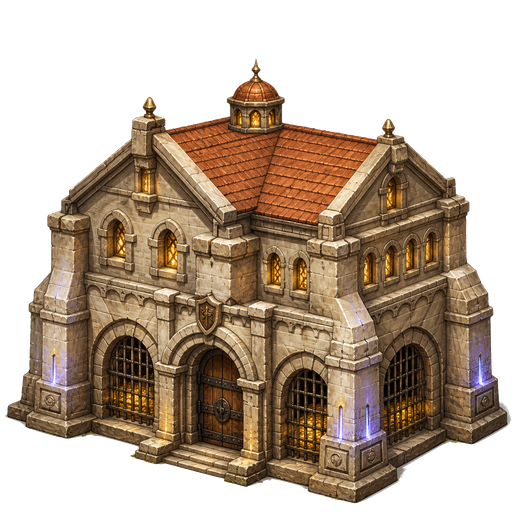
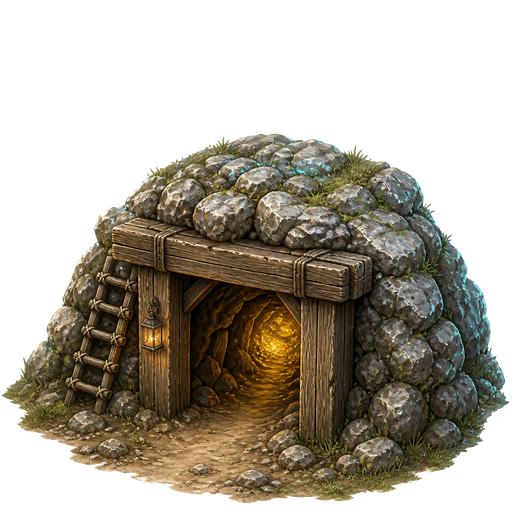
Remesh Gold Vault to hillside mine-mouth aesthetic, flag still off.
Replace stronghouse/arcade sheets with dug-into-hill timber-framed bunker mouth and aether-gold glow; soft-wire stays deferred for the stronghold batch.

diff --git a/game.js b/game.js
@@ -7030,7 +7030,7 @@ function drawHallSprite(s) {
 // Gold Vault sheets — soft-wire OFF until building-art ship batch.
 // Collision r stays STRUCT_KINDS.golddepot.r (40). Flag ON → drawH=52 (stockier than hall 60).
 const VAULT_SPRITE_ENABLED = false;
-const VAULT_SPRITE_DRAWH = 52; // SIZE LOCK — fortified storehouse, << hall / Keep
+const VAULT_SPRITE_DRAWH = 52; // SIZE LOCK — squat mine-mouth bunker, << hall / Keep
 const vaultSpr = { idle: null, damaged: null, ok: false };
 (function loadVaultSprites() {
   if (!VAULT_SPRITE_ENABLED) return;

diff --git a/www/game.js b/www/game.js
@@ -7030,7 +7030,7 @@ function drawHallSprite(s) {
 // Gold Vault sheets — soft-wire OFF until building-art ship batch.
 // Collision r stays STRUCT_KINDS.golddepot.r (40). Flag ON → drawH=52 (stockier than hall 60).
 const VAULT_SPRITE_ENABLED = false;
-const VAULT_SPRITE_DRAWH = 52; // SIZE LOCK — fortified storehouse, << hall / Keep
+const VAULT_SPRITE_DRAWH = 52; // SIZE LOCK — squat mine-mouth bunker, << hall / Keep
 const vaultSpr = { idle: null, damaged: null, ok: false };
 (function loadVaultSprites() {
   if (!VAULT_SPRITE_ENABLED) return;

diff --git a/docs/vault-art-plan.md b/docs/vault-art-plan.md
@@ -1,14 +1,15 @@
 # Gold Vault building art plan
 
-Original Temporal Rift **Gold Vault** town building — meshed from arcade /
-fortified storehouse cues (not a named real-world landmark clone). **Gold Vault
-only** this pass (#2d); Muster Hall is #2c; Aether Pit still pending (optional
-later — vault prioritized).
+Original Temporal Rift **Gold Vault** town building — meshed from hillside mine /
+fortified bunker-mouth cues (not a named real-world landmark clone, and **not**
+the earlier freestanding stronghouse / arcade vault look). **Gold Vault only**
+this remesh; Muster Hall is #2c; Aether Pit still pending.
 
-**Status (2026-08-09):** Art drafted + soft-wired. Live game still uses procedural
-`golddepot` rects (`drawStructure`). Flip `VAULT_SPRITE_ENABLED=true` (one line
-near `drawStructure`) to enable sheets. **Store ship deferred** with hall/pit +
-stronghold + town-save batch — **no APK / no version bump this pass.**
+**Status (2026-08-09):** Remeshed to dug-into-hill mine-mouth + soft-wired.
+Live game still uses procedural `golddepot` rects (`drawStructure`). Flip
+`VAULT_SPRITE_ENABLED=true` (one line near `drawStructure`) to enable sheets.
+**Store ship deferred** with hall/pit + stronghold + town-save batch — **no APK
+/ no version bump this pass.**
 
 ## Size lock
 
@@ -16,15 +17,15 @@ stronghold + town-save batch — **no APK / no version bump this pass.**
 |-------|---------------------|------------|--------|
 | Vault collision `r` | **40** (`STRUCT_KINDS.golddepot.r`) | **40** (unchanged) | Same footprint as timber camp radius |
 | Procedural body | bw **32** × bh **28** (+ roof bits) | unused when sprite draws | Baseline silhouette |
-| Sprite `drawH` | n/a | **52** (`VAULT_SPRITE_DRAWH`) | Stockier / shorter than Muster Hall **60**; near camp timber **50** |
-| Sprite `drawW` | n/a | aspect from sheet | Feet at `s.y`; fortified storehouse, not hall / Keep / Gharok |
+| Sprite `drawH` | n/a | **52** (`VAULT_SPRITE_DRAWH`) | Squat mine mouth; stockier / shorter than Muster Hall **60**; near camp timber **50** |
+| Sprite `drawW` | n/a | aspect from sheet | Feet at `s.y`; hillside bunker mouth, not hall / Keep / Gharok |
 
-Source PNGs are 512×512 transparent but drawn at vault scale — thick-walled
-stronghouse with grated arcade, not a civic tower-hall.
+Source PNGs are 512×512 transparent but drawn at vault scale — low rocky mound
+with timber-framed entrance and aether-gold interior glow.
 
 ## Assets
 
-- `assets/buildings/vault/idle.png` — main Gold Vault
+- `assets/buildings/vault/idle.png` — main Gold Vault (mine mouth)
 - `assets/buildings/vault/damaged.png` — battle-scarred variant (HP &lt; 45% when flag ON)
 
 Transparent background. Soft-load path mirrors Keep/hall: when
@@ -37,11 +38,12 @@ remains default / fallback while flag is false (live unchanged).
 
 Meshed traits (inspiration only):
 
-1. Stocky thick-walled stone stronghouse (shorter than Muster Hall)
-2. Heavy grated / barred arcade arches (vault + storehouse read)
-3. Iron-bound oak door; small high windows with warm aether-gold glow
-4. Shallow gable / modest cupola — no tall civic tower
-5. Subtle Temporal Rift accent: gold ore sparkles + cool cyan–violet rim light
+1. Dug-into-hill / rocky mound bunker mouth (not a freestanding two-story treasury)
+2. Heavy rustic timber frame — posts + lintel (optional rope/iron bindings)
+3. Dark tunnel interior with warm **aether-gold** glow deep inside
+4. Optional rustic ladder + hanging lantern; dirt path / rubble at feet
+5. Subtle Temporal Rift accent: cool cyan–violet rim optional; **no readable IP /
+   landmark sign text** (do not clone “CRUICE MONITAN” or similar)
 
 ## References (inspiration only)
 
@@ -49,10 +51,11 @@ Under `assets/buildings/vault/_refs/` (stripped from APK — not copied to `www/
 
 | File | Role |
 |------|------|
-| `arcade-massing-insp.png` | Heavy stone massing / buttress rhythm (vault scale cue) |
-| `fortified-detail-insp.png` | Ornate stone / fortified facade accents |
+| `hillside-bunker-mouth-insp.png` | Fortified stone bunker dug into grassy hillside |
+| `rocky-cave-ladder-insp.png` | Natural rocky cave opening + rustic ladder |
+| `timber-frame-mine-mouth-insp.png` | Timber-framed mine mouth miniature (posts + lintel) |
 
-Arcade cues also informed by shared hall town-hall arcade refs (inspiration only).
+Prior arcade / fortified-storehouse refs were replaced by this mine-mouth set.
 
 ## Soft-wire flags
 
@@ -71,7 +74,7 @@ checker variants / `preview-idle-damaged.png` for Photos review.
 ## Optional note — Aether Pit
 
 Aether Pit (`aetherpit`, r=38) remains procedural; no sprite draft this pass
-unless a later #2 part adds it. Vault only for #2d.
+unless a later #2 part adds it. Vault only for #2d remesh.
 
 ## Apply / ship (later batch)
 
@@ -82,5 +85,5 @@ unless a later #2 part adds it. Vault only for #2d.
 ## Next batch order
 
 (1) ~~ravager~~ → (2a) ~~Keep~~ → (2b) ~~camps~~ → (2c) ~~Muster Hall~~ →
-**(2d) ~~Gold Vault~~ drafted flag OFF** → pit optional → (3) allies →
+**(2d) ~~Gold Vault~~ remeshed mine-mouth, flag OFF** → pit optional → (3) allies →
 (4) fence brick stronghold → (5) one update apply

diff --git a/docs/CHANGE_MEMORY.md b/docs/CHANGE_MEMORY.md
@@ -58,7 +58,7 @@ Update when any channel ships. Audit snapshot as of 2026-08-09:
 | Rift Keep building sprites (idle/damaged) | **Drafted on master, flag OFF** (`KEEP_SPRITE_ENABLED=false`; live procedural keep; flip → drawH=72, r=54 unchanged) — **ship deferred** with stronghold batch | **No** | **No** | **No** |
 | Timber/Supply Camp building sprites | **Drafted on master, flags OFF** (`CAMP_SPRITE_ENABLED`/`TIMBER_SPRITE_ENABLED`/`SUPPLY_SPRITE_ENABLED=false`; live procedural; flip → timber drawH=50 r=40 / supply drawH=46 r=36) — **ship deferred** with stronghold batch | **No** | **No** | **No** |
 | Muster Hall building sprites (idle/damaged) | **Drafted on master, flag OFF** (`HALL_SPRITE_ENABLED=false`; live procedural muster; flip → drawH=60, r=46 unchanged) — **ship deferred** with stronghold batch | **No** | **No** | **No** |
-| Gold Vault building sprites (idle/damaged) | **Drafted on master, flag OFF** (`VAULT_SPRITE_ENABLED=false`; live procedural golddepot; flip → drawH=52, r=40 unchanged) — **ship deferred** with stronghold batch; Aether Pit still pending | **No** | **No** | **No** |
+| Gold Vault building sprites (idle/damaged) | **Remeshed mine-mouth on master, flag OFF** (`VAULT_SPRITE_ENABLED=false`; live procedural golddepot; flip → drawH=52, r=40 unchanged) — hillside bunker / timber frame + aether-gold glow (replaced prior stronghouse mesh); **ship deferred** with stronghold batch; Aether Pit still pending | **No** | **No** | **No** |
 | Riftnet co-op (presence/HP/wave/revive) | Yes (partial) | Yes | Yes (2.13.2) | Yes (2.13.2) |
 | Full co-op combat sync (enemies shared) | **No** (deferred) | **No** | **No** | **No** |
 | Buildable city / craft behind fences | **Deepened** (2.11.0 WC2-style slice) | **Deepened** | **Deepened** (2.13.2) | **Deepened** (2.13.2) |
@@ -139,9 +139,9 @@ Do not invent extras. Skip boss art / combat “feel” polish unless user reope
 | Backlog | **Rift Keep** building art — **drafted, flag OFF** | `assets/buildings/keep/{idle,damaged}.png`; `KEEP_SPRITE_ENABLED=false`; collision `r=54` unchanged; flag ON → `drawH=72`. See `docs/keep-art-plan.md`. Apply with stronghold batch |
 | Backlog | **Timber/Supply Camp** building art — **drafted, flags OFF** | Commit `0484c67`; `assets/buildings/camp/{idle,damaged,timber-idle,timber-damaged,supply-idle,supply-damaged}.png`; `CAMP_SPRITE_ENABLED`/`TIMBER_SPRITE_ENABLED`/`SUPPLY_SPRITE_ENABLED=false`; flip → timber r=40 drawH=50 / supply(farm) r=36 drawH=46 (collision r unchanged). Desktop `TemporalRift-Camp-Sprites`. See `docs/camp-art-plan.md`. Apply with stronghold batch |
 | Backlog | **Muster Hall** building art — **drafted, flag OFF** | Commit `080094b`; `assets/buildings/hall/{idle,damaged}.png`; `HALL_SPRITE_ENABLED=false`; collision `r=46` unchanged; flag ON → `drawH=60` (between camp ~50 and Keep 72). Desktop `TemporalRift-Hall-Sprites`. See `docs/hall-art-plan.md`. Apply with stronghold batch |
-| Backlog | **Gold Vault** building art — **drafted, flag OFF** | Commit `080094b`; `assets/buildings/vault/{idle,damaged}.png`; `VAULT_SPRITE_ENABLED=false`; collision `r=40` unchanged; flag ON → `drawH=52` (stockier than hall 60). Desktop `TemporalRift-Vault-Sprites`. See `docs/vault-art-plan.md`. Aether Pit still pending; apply with stronghold batch |
+| Backlog | **Gold Vault** building art — **remeshed mine-mouth, flag OFF** | Replaced stronghouse/arcade mesh with dug-into-hill timber-framed mine mouth + aether-gold interior glow (no readable IP/sign text); `assets/buildings/vault/{idle,damaged}.png`; `_refs/`: hillside-bunker-mouth-insp, rocky-cave-ladder-insp, timber-frame-mine-mouth-insp (old arcade refs removed); `VAULT_SPRITE_ENABLED=false`; collision `r=40` unchanged; flag ON → `drawH=52`. Desktop `TemporalRift-Vault-Sprites`. See `docs/vault-art-plan.md`. Aether Pit still pending; apply with stronghold batch |
 
-**Next batch suggested order** (user photos → art upgrades + buildings + ravager + stronghold later): (1) ~~ravager mesh~~ **art+articulation+barks coded (flag OFF)** (2a) ~~**Keep art**~~ **drafted (flag OFF)** (2b) ~~**camps**~~ **drafted (flags OFF)** (2c) ~~**Muster Hall**~~ **drafted (flag OFF)** (2d) ~~**Gold Vault**~~ **drafted (flag OFF)** → **Aether Pit** optional → (3) ally/militia/laborer skins if photos (4) fence brick stronghold systems (5) one update apply (town save + ravager/keep/camp/hall/vault flags ON).
+**Next batch suggested order** (user photos → art upgrades + buildings + ravager + stronghold later): (1) ~~ravager mesh~~ **art+articulation+barks coded (flag OFF)** (2a) ~~**Keep art**~~ **drafted (flag OFF)** (2b) ~~**camps**~~ **drafted (flags OFF)** (2c) ~~**Muster Hall**~~ **drafted (flag OFF)** (2d) ~~**Gold Vault**~~ **remeshed mine-mouth (flag OFF)** → **Aether Pit** optional → (3) ally/militia/laborer skins if photos (4) fence brick stronghold systems (5) one update apply (town save + ravager/keep/camp/hall/vault flags ON).
 
 ---
 

diff --git a/docs/UNIT_SIZES.md b/docs/UNIT_SIZES.md
@@ -58,4 +58,4 @@ In-engine animation (limb swing / windup / strike / hurt lean) must stay additiv
 - **Rift Keep (art drafted, flag OFF 2026-08-09):** `assets/buildings/keep/{idle,damaged}.png`; `KEEP_SPRITE_ENABLED=false` (live procedural keep bw42/bh40/~56 tall). Flip flag -> `drawH=72`, collision `r=54` unchanged (keep-sized, not Gharok-huge). See `docs/keep-art-plan.md`.
 - **Timber/Supply Camp (art drafted, flags OFF 2026-08-09):** `assets/buildings/camp/{idle,damaged,timber-idle,timber-damaged,supply-idle,supply-damaged}.png`; `CAMP_SPRITE_ENABLED`/`TIMBER_SPRITE_ENABLED`/`SUPPLY_SPRITE_ENABLED=false` (live procedural bw32/bh28). Flip -> timber `drawH=50` r=40 / supply `drawH=46` r=36 (camp-tall, << Keep 72). See `docs/camp-art-plan.md`.
 - **Muster Hall (art drafted, flag OFF 2026-08-09):** `assets/buildings/hall/{idle,damaged}.png`; `HALL_SPRITE_ENABLED=false` (live procedural muster). Flip flag -> `drawH=60`, collision `r=46` unchanged (between camp ~50 and Keep 72; training hall, not cathedral). See `docs/hall-art-plan.md`.
-- **Gold Vault (art drafted, flag OFF 2026-08-09):** `assets/buildings/vault/{idle,damaged}.png`; `VAULT_SPRITE_ENABLED=false` (live procedural golddepot). Flip flag -> `drawH=52`, collision `r=40` unchanged (stockier than hall 60). Aether Pit still pending. See `docs/vault-art-plan.md`.
+- **Gold Vault (mine-mouth remesh, flag OFF 2026-08-09):** `assets/buildings/vault/{idle,damaged}.png`; hillside bunker / timber-framed entrance + aether-gold glow (not freestanding stronghouse). `VAULT_SPRITE_ENABLED=false` (live procedural golddepot). Flip flag -> `drawH=52`, collision `r=40` unchanged (stockier than hall 60). Aether Pit still pending. See `docs/vault-art-plan.md`.

diff --git a/docs/decisions.log.md b/docs/decisions.log.md
@@ -16,6 +16,12 @@
 
 ---
 
+### 2026-08-09 — DEFERRED — #2d Gold Vault remesh to mine-mouth (flag OFF; no APK)
+- Version / commit / APK: assets+docs only (no APP_VERSION / versionCode bump) / **no BETA APK** / **no live enable**
+- User intent: Remesh Gold Vault from freestanding stronghouse/arcade vault look to dug-into-hill / fortified mine-mouth aesthetic; soft-wire stays OFF; Desktop Photos; no APK / no version bump / no live enable
+- Agent action: Replaced `assets/buildings/vault/{idle,damaged}.png` with timber-framed rocky bunker mouth + aether-gold interior glow (no readable IP/sign text); new `_refs/`: `hillside-bunker-mouth-insp`, `rocky-cave-ladder-insp`, `timber-frame-mine-mouth-insp` (old arcade refs removed); kept `VAULT_SPRITE_ENABLED=false`, sizes `r=40` / `drawH=52` unchanged; docs `vault-art-plan.md` + UNIT_SIZES + CHANGE_MEMORY; Desktop `C:\Users\drpep\Desktop\TemporalRift-Vault-Sprites` refreshed
+- Notes: Prior arcade/stronghouse mesh superseded. Aether Pit still pending; apply vault (flag ON) with stronghold batch. REMOVED list intact — nothing added to REMOVED.
+
 ### 2026-08-09 — DEFERRED — #2c Muster Hall + #2d Gold Vault art drafted (pit pending; apply later)
 - Version / commit / APK: assets+docs+soft-wire only (no APP_VERSION / versionCode bump) / `080094b` / **no BETA APK**
 - User intent: Mesh town-hall / half-timber / gothic / arcade refs into Muster Hall (#2c) then Gold Vault (#2d); soft-wire flags OFF; Desktop photos; no APK / no live enable / no stronghold this pass

diff --git a/assets/buildings/vault/_refs/README.md b/assets/buildings/vault/_refs/README.md
@@ -1,5 +1,6 @@
 # Gold Vault inspiration refs
 
-Inspiration-only photos/renders for original Temporal Rift **Gold Vault** art.
-Do not ship as gameplay assets; build scripts strip `_refs` from `www/` / APK.
-Arcade/massing cues only — not a named real-world landmark clone.
+Inspiration-only photos/renders for original Temporal Rift **Gold Vault** art
+(hillside mine / fortified bunker mouth). Do not ship as gameplay assets; build
+scripts strip `_refs` from `www/` / APK. Mine-mouth massing cues only — not a
+named real-world landmark clone; no readable IP sign text in final sheets.
